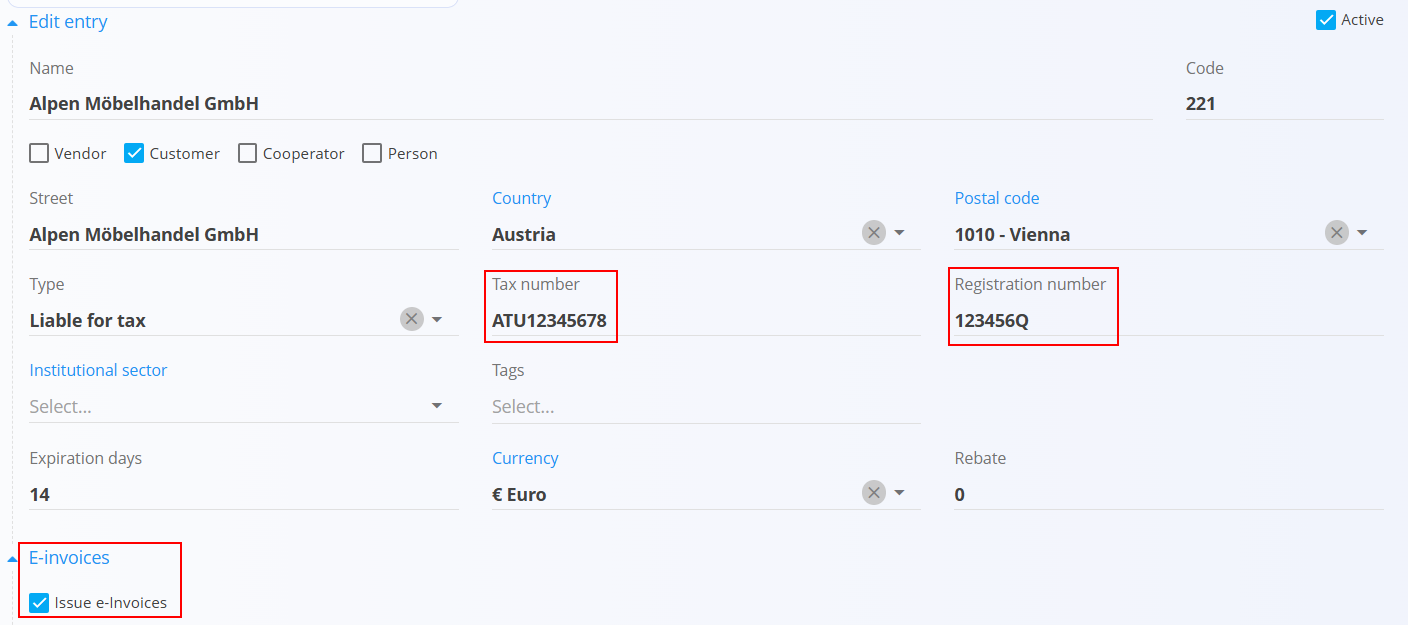
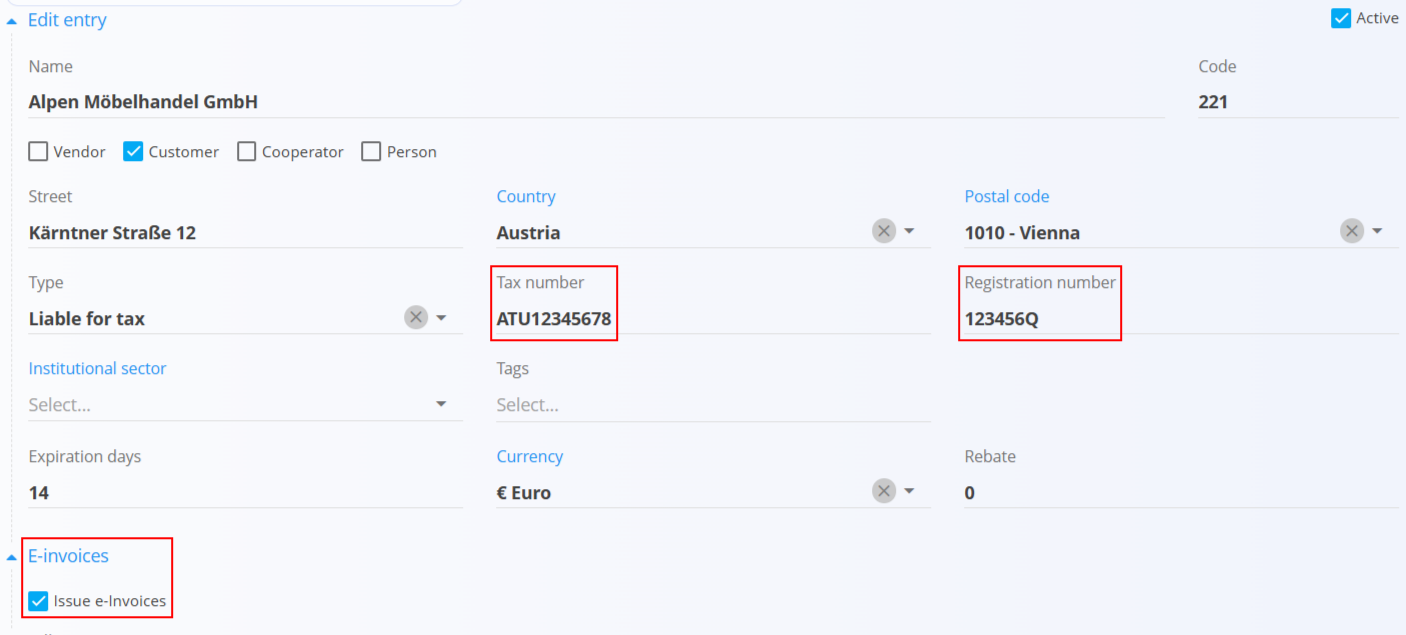
docs: retake e-invoice customer data screenshots, match Issue e-Invoices label
Replace the street placeholder (company name) in the EN and SL customer
screenshots and align the checkbox name with the UI spelling.

diff --git a/en/Common/Concepts/E-Invoices.md b/en/Common/Concepts/E-Invoices.md
@@ -32,7 +32,7 @@ The following data must be entered for the customer in the [**Business directory
 
 | Requirement | Description |
 |-------------|-------------|
-| **E-invoices** | The **Issue e-invoices** checkbox must be selected in the [**E-invoices**](../Management/BusinessDirectory.md#e-invoices) section. |
+| **E-invoices** | The **Issue e-Invoices** checkbox must be selected in the [**E-invoices**](../Management/BusinessDirectory.md#e-invoices) section. |
 | **Tax number** | The customer's VAT identification number. |
 | **Registration number** | The customer's company registration number. |
 | [**Bank account**](../Management/BankAccounts.md) | At least one bank account of the customer. |

diff --git a/en/Common/Management/BusinessDirectory.md b/en/Common/Management/BusinessDirectory.md
@@ -122,7 +122,7 @@ To create a new entry:
 
 #### E-invoices
 
-This section allows enabling the issuing of e-invoices to the related company by selecting the **Issue e-invoices** checkbox.
+This section allows enabling the issuing of e-invoices to the related company by selecting the **Issue e-Invoices** checkbox.
 
 ![E-invoices section](../Images/BusinessDirectoryEInvoices.png "E-invoices section")
 
